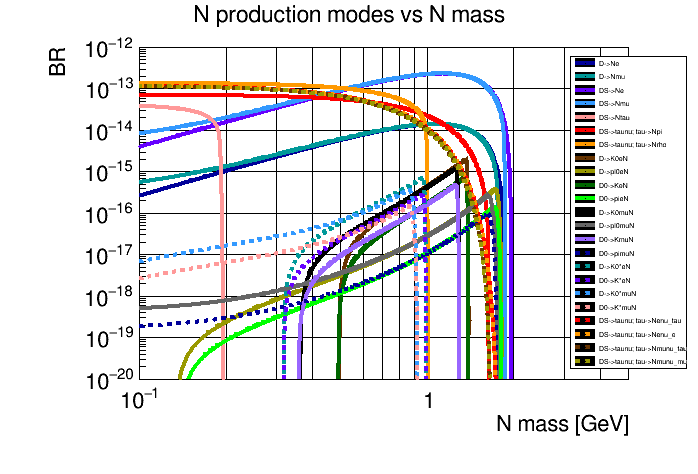
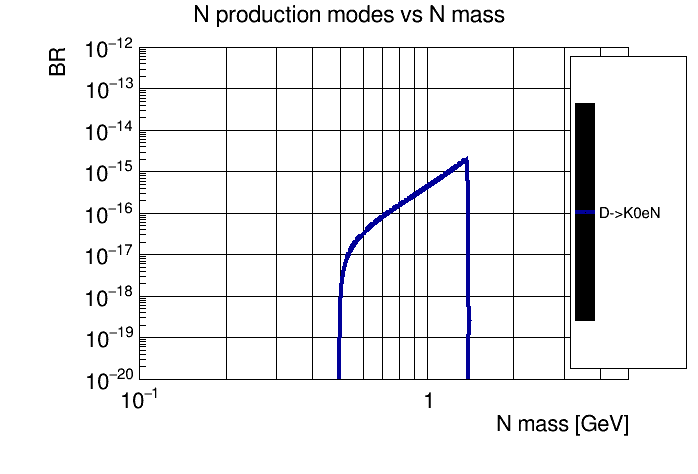
update

Changed region(s): [[0.1805, 0.1477, 0.7521, 0.7975], [0.8123, 0.1181, 0.9928, 0.7679]]

diff --git a/MyScripts/Others/GeneralPlots.C b/MyScripts/Others/GeneralPlots.C
@@ -663,32 +663,32 @@ void GeneralPlots() {
   
   // HNL production via two-body decay
 
-  MassScan(D,   e,   0., 1, 1, "D->Ne",                Mprod);
-  MassScan(D,   mu,  0., 1, 1, "D->Nmu",               Mprod);
-  MassScan(DS,  e,   0., 1, 1, "DS->Ne",               Mprod);
-  MassScan(DS,  mu,  0., 1, 1, "DS->Nmu",              Mprod);
-  MassScan(DS,  tau, 0., 1, 1, "DS->Ntau",             Mprod);
-  MassScan(tau, pi,  0., 1, 1, "DS->taunu; tau->Npi",  Mprod);
-  MassScan(tau, rho, 0., 1, 1, "DS->taunu; tau->Nrho", Mprod);
+  //MassScan(D,   e,   0., 1, 1, "D->Ne",                Mprod);
+  //MassScan(D,   mu,  0., 1, 1, "D->Nmu",               Mprod);
+  //MassScan(DS,  e,   0., 1, 1, "DS->Ne",               Mprod);
+  //MassScan(DS,  mu,  0., 1, 1, "DS->Nmu",              Mprod);
+  //MassScan(DS,  tau, 0., 1, 1, "DS->Ntau",             Mprod);
+  //MassScan(tau, pi,  0., 1, 1, "DS->taunu; tau->Npi",  Mprod);
+  //MassScan(tau, rho, 0., 1, 1, "DS->taunu; tau->Nrho", Mprod);
   
   // HNL production via three-body decay
 
   MassScan(D,  K0,  e,  1, 0, "D->K0eN",   Mprod);
-  MassScan(D,  pi0, e,  1, 0, "D->pi0eN",  Mprod);
-  MassScan(D0, K,   e,  1, 0, "D0->KeN",   Mprod);
-  MassScan(D0, pi,  e,  1, 0, "D0->pieN",  Mprod);
-  MassScan(D,  K0,  mu, 1, 0, "D->K0muN",  Mprod);
-  MassScan(D,  pi0, mu, 1, 0, "D->pi0muN", Mprod);
-  MassScan(D0, K,   mu, 1, 0, "D0->KmuN",  Mprod);
-  MassScan(D0, pi,  mu, 1, 0, "D0->pimuN", Mprod);
-  MassScan(D,  K0Star,  e,  1, 0, "D->K0*eN",   Mprod);
-  MassScan(D0, KStar,   e,  1, 0, "D0->K*eN",   Mprod);
-  MassScan(D,  K0Star,  mu, 1, 0, "D->K0*muN",  Mprod);
-  MassScan(D0, KStar,   mu, 1, 0, "D0->K*muN",  Mprod);
-  MassScan(tau, 0.1,   e,  1, 0, "DS->taunu; tau->Nenu_tau",  Mprod);
-  MassScan(tau, 0.01,  e,  1, 0, "DS->taunu; tau->Nenu_e",    Mprod);
-  MassScan(tau, 0.1,   mu, 1, 0, "DS->taunu; tau->Nmunu_tau", Mprod);
-  MassScan(tau, 0.01,  mu, 1, 0, "DS->taunu; tau->Nmunu_mu",  Mprod);
+  //MassScan(D,  pi0, e,  1, 0, "D->pi0eN",  Mprod);
+  //MassScan(D0, K,   e,  1, 0, "D0->KeN",   Mprod);
+  //MassScan(D0, pi,  e,  1, 0, "D0->pieN",  Mprod);
+  //MassScan(D,  K0,  mu, 1, 0, "D->K0muN",  Mprod);
+  //MassScan(D,  pi0, mu, 1, 0, "D->pi0muN", Mprod);
+  //MassScan(D0, K,   mu, 1, 0, "D0->KmuN",  Mprod);
+  //MassScan(D0, pi,  mu, 1, 0, "D0->pimuN", Mprod);
+  //MassScan(D,  K0Star,  e,  1, 0, "D->K0*eN",   Mprod);
+  //MassScan(D0, KStar,   e,  1, 0, "D0->K*eN",   Mprod);
+  //MassScan(D,  K0Star,  mu, 1, 0, "D->K0*muN",  Mprod);
+  //MassScan(D0, KStar,   mu, 1, 0, "D0->K*muN",  Mprod);
+  //MassScan(tau, 0.1,   e,  1, 0, "DS->taunu; tau->Nenu_tau",  Mprod);
+  //MassScan(tau, 0.01,  e,  1, 0, "DS->taunu; tau->Nenu_e",    Mprod);
+  //MassScan(tau, 0.1,   mu, 1, 0, "DS->taunu; tau->Nmunu_tau", Mprod);
+  //MassScan(tau, 0.01,  mu, 1, 0, "DS->taunu; tau->Nmunu_mu",  Mprod);
   
   // HNL decay via two- and three-body decay
 
